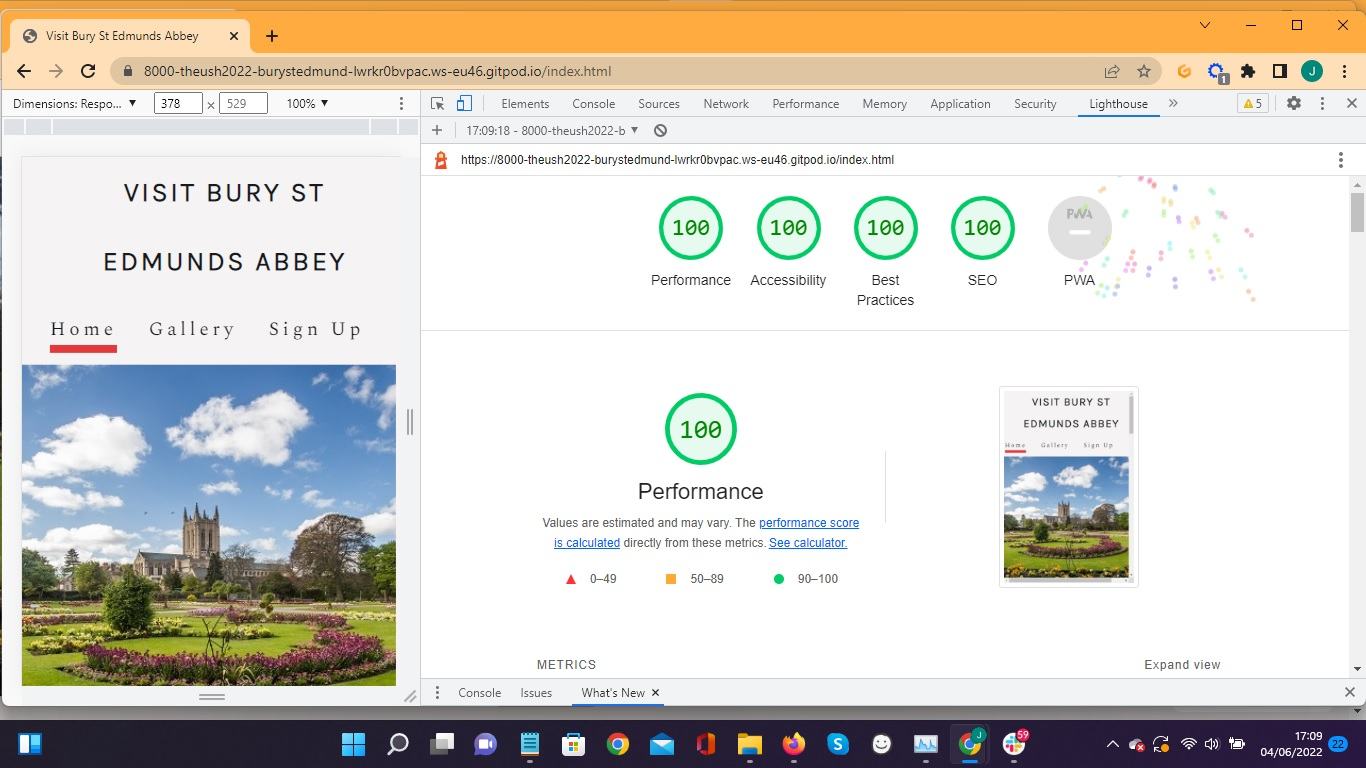
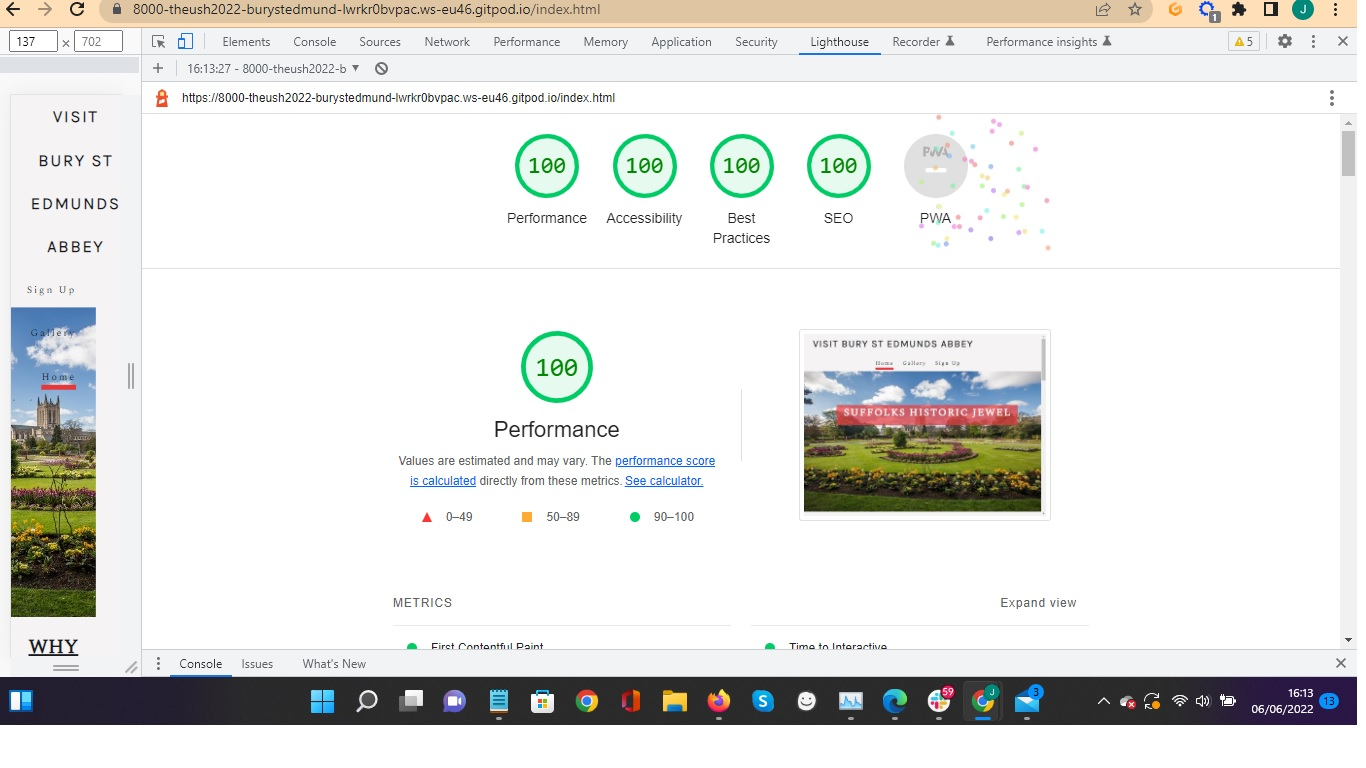
Add styles for screens 1105px and down and update README

diff --git a/assets/css/style.css b/assets/css/style.css
@@ -56,7 +56,7 @@ nav {
 }
 
 #menu li {
-    float: right;
+    float:right;
     margin-right: 2rem;
     list-style-type: none;
 }
@@ -104,7 +104,7 @@ nav {
     height: 4.5rem;
     padding-left: 5px;
     background-color: rgba(229, 56, 59, .7);
-    bottom: 60%;
+    bottom: 50%;
     right: 10%;
     position: absolute;
 }
@@ -269,6 +269,20 @@ footer {
     color:#f5f3f4;
 }
 
+/*For screen sizes 1105px and down*/
+
+@media (max-width: 1105px) {
+    #menu { 
+        display: inline-block;
+        float: none;
+        margin-bottom: 1rem;
+          }
+    #main-logo {
+        display: inline-block;
+        }
+    
+    }
+
 /* For screen sizes 768px and down*/
 
 @media (max-width: 768px) {
@@ -288,15 +302,18 @@ footer {
     .where-to-visit img {
         width: 66%;
     }
-        
+
+    .form { width: 60%;
+    }
 }
+
 /* For screen sizes 410px and down*/
 
   
   @media (max-width: 410px) {
     #menu li {
       font-size: 1rem;
-      margin-right: 2rem;
+      
     }
     #main-logo {
       font-size: 1.7rem;
